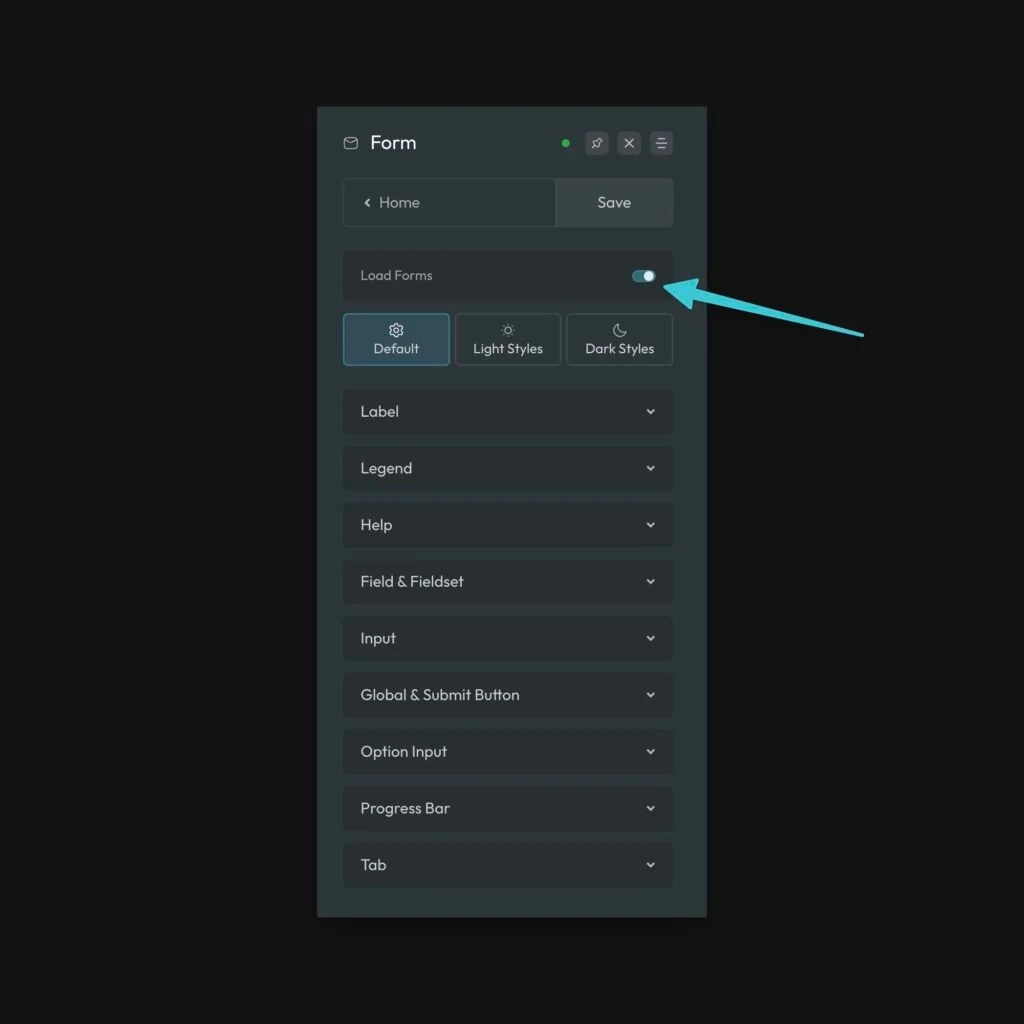
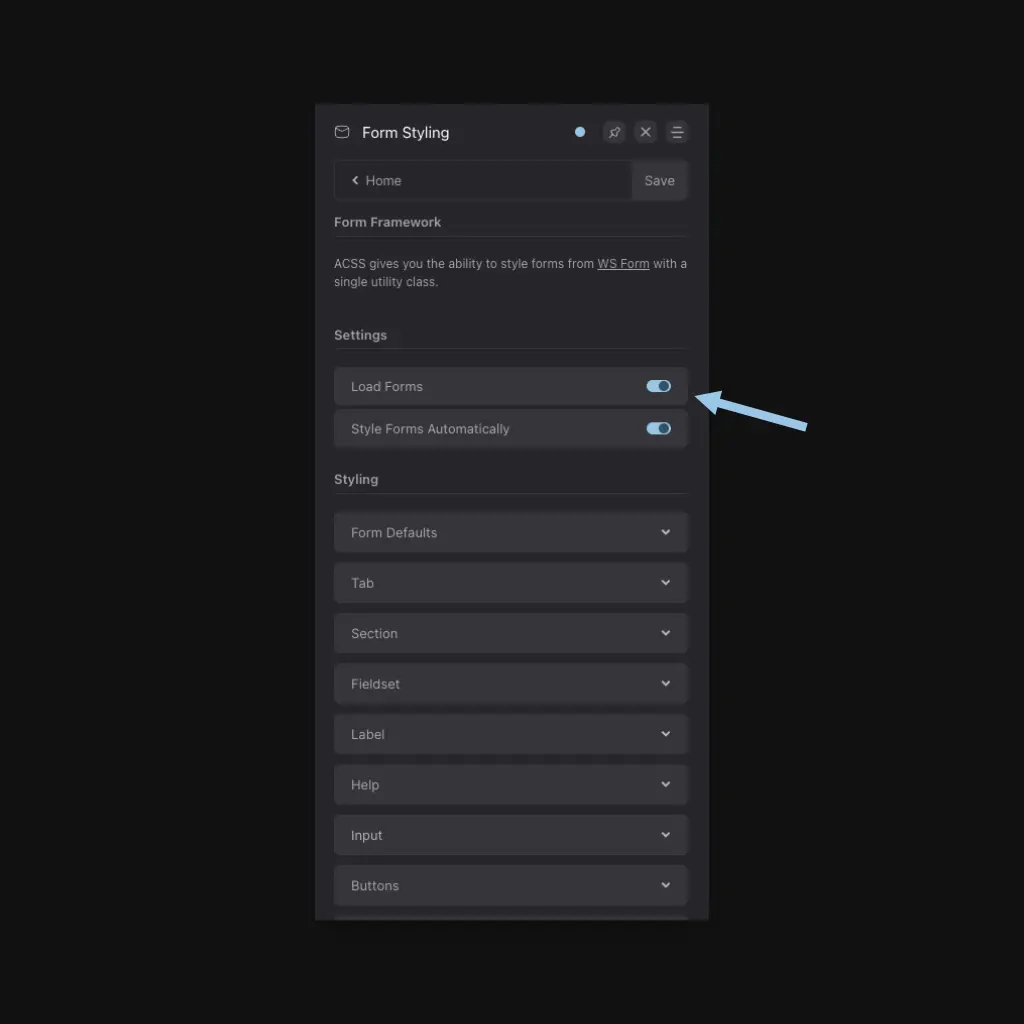
fix: update form docs for v4

diff --git a/docs/forms/form-styling-basics.md b/docs/forms/form-styling-basics.md
@@ -3,59 +3,39 @@ title: Form Styling Basics
 sidebar_position: 100
 ---
 
-ACSS provides automatic form styling for select form systems. To get started, make sure Load Forms is turned on in the Forms screen of the ACSS dashboard:
+ACSS provides comprehensive form styling for WS Form. To get started, make sure Load Forms is turned on in the Forms screen of the ACSS dashboard:
 
 ![](img/load-forms.webp)
 
 Load Forms Setting
 
-Once activated, you’ll see three tabs and multiple settings panels.
-
-Form Styling is divided into three areas:
-
-- Default – All global form styles that are shared between both color styles. This covers things like spacing, font size, gaps, and more.
-- Light Styles – All styles associated with a “light” form.
-- Dark Styles – All styles associated with a “dark” form.
-
-If you don’t care to use either the dark or light style set, you can simply ignore that particular tab.
+Once activated, all form styling is automatically applied using a unified configuration system.
 
 ## The Premise of Form Styling
 
-Most projects don’t have multiple different form styles. As with most things, consistency is the goal. Therefore, all the forms on your site should share certain structural and spacing values. In ACSS, this is done in the Default tab.
+Most projects maintain consistent form styles throughout their site. In ACSS, all forms share the same structural and spacing values defined in a single configuration.
 
-Beyond that, you want to be able to customize the colors and look and feel of your forms. The only time form styles need to differ a lot is when you need a dark form versus a light form. Thus, we have a style set for each.
+Beyond spacing, you have complete control over form colors and appearance. Forms automatically adapt to your site's color scheme—when you switch between light and dark modes, forms intelligently adjust their colors without requiring separate style definitions. This is achieved through CSS's native `light-dark()` function, which respects your site's `color-scheme` setting.
 
-Keep in mind that this is not related to [color scheme](../colors/color-scheme-dark-mode.md). The light and dark form styles can be deployed on your website regardless of color scheme settings.
+## Automatic Color Adaptation
 
-## Styling Forms (Form Utility Classes)
+Forms automatically adapt based on your site's configured `color-scheme` setting. When you switch between light and dark modes, forms intelligently adjust their colors through CSS's native `light-dark()` function, without requiring separate style definitions or manual configuration.
 
-**ACSS will not style your form unless one of the `.form--` utility classes is present.** Your options are `.form--light` and `.form--dark`.
+## Styling Forms (Optional Utility Classes)
 
-Once you’ve placed the utility class directly on the form element in the builder, you’ll see the styles change to ACSS’ defaults. You can then configure your styles very easily using live preview.
+While forms are styled automatically, ACSS provides optional utility classes for more explicit control if needed. Your options are `.form--light` and `.form--dark`.
+
+These classes can be placed on the form element (or a parent container) in the builder to explicitly set a light or dark appearance, overriding the automatic color-scheme detection. In most cases, however, relying on automatic adaptation is recommended for a seamless experience.
+
+Simply apply `.form--light` or `.form--dark` directly to your form element, and the styles will adapt accordingly. You can then fine-tune your styles further using live preview in the ACSS dashboard.
 
 ## Supported Forms
 
-The ACSS Light and dark form classes are currently compatible with the following form plugins
-
-- WS Form
-- Fluent Forms
-- Bricks
-
-Additional form plugins will also be supported in the near future.
+ACSS form styling is currently compatible with **WS Form**. 
 
 ## Important Note about WS Form
 
-With version 1.10.x, WS Form introduced the new Styler system, offering greater control over WordPress form design.
-However, this update has impacted the functionality of our form utility classes. Therefore, we currently recommend disabling the Styler until we have fully refactored our form framework.
+**The Styler must be enabled** for ACSS form styling to function properly, as our framework relies on WS Form's CSS variables exposed by the Styler.
 
-When the Styler is disabled, our form utility classes work without any issues.
 
-### Disabling the Styler
-
-To disable the Styler and revert to the legacy Customize method, add the following PHP code to your theme’s `functions.php` file (preferably in a child theme) or as a code snippet:
-
-```PHP
-add_filter('wsf_styler_enabled', function() { return false; });
-```
-
-After making this change, navigate to **WS Form > Settings** and click **Save** to regenerate the legacy CSS files.
+If you encounter styling issues, ensure you've saved your settings by clicking **Save** in the WS Form settings page to regenerate any necessary system files.

diff --git a/docs/builder-configuration/how-to-setup-acss-with-bricks-builder.md b/docs/builder-configuration/how-to-setup-acss-with-bricks-builder.md
@@ -21,7 +21,7 @@ Download this <a href="/assets/bricks-settings-acss.json" download="/assets/bric
 
 Bricks uses Global [Theme Styles](https://academy.bricksbuilder.io/article/theme-styles/) to control a lot of your website’s default styling. Most of this should be left undefined, but a few settings need to be set up.
 
-Download this [Bricks Theme file (.json)](assets/bricks-theme-style-acss.json) and upload it to the Bricks Global [Theme Styles](https://academy.bricksbuilder.io/article/theme-styles/) area.
+Download this <a href="/assets/bricks-theme-style-acss.json" download="/assets/bricks-theme-style-acss.json">Bricks Theme file (.json)</a> and upload it to the Bricks Global [Theme Styles](https://academy.bricksbuilder.io/article/theme-styles/) area.
 
 Open Bricks Builder by editing any page or template. Once in the editor, click the settings wheel toward the top left: Bricks Global Styles
 
